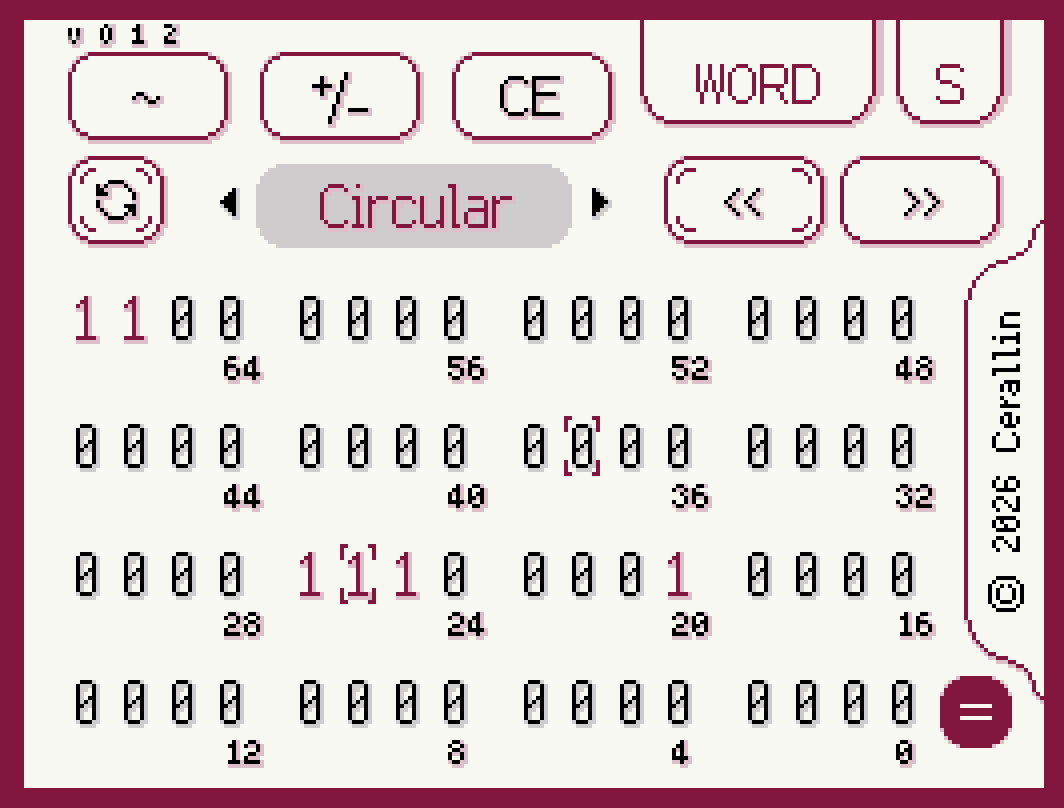
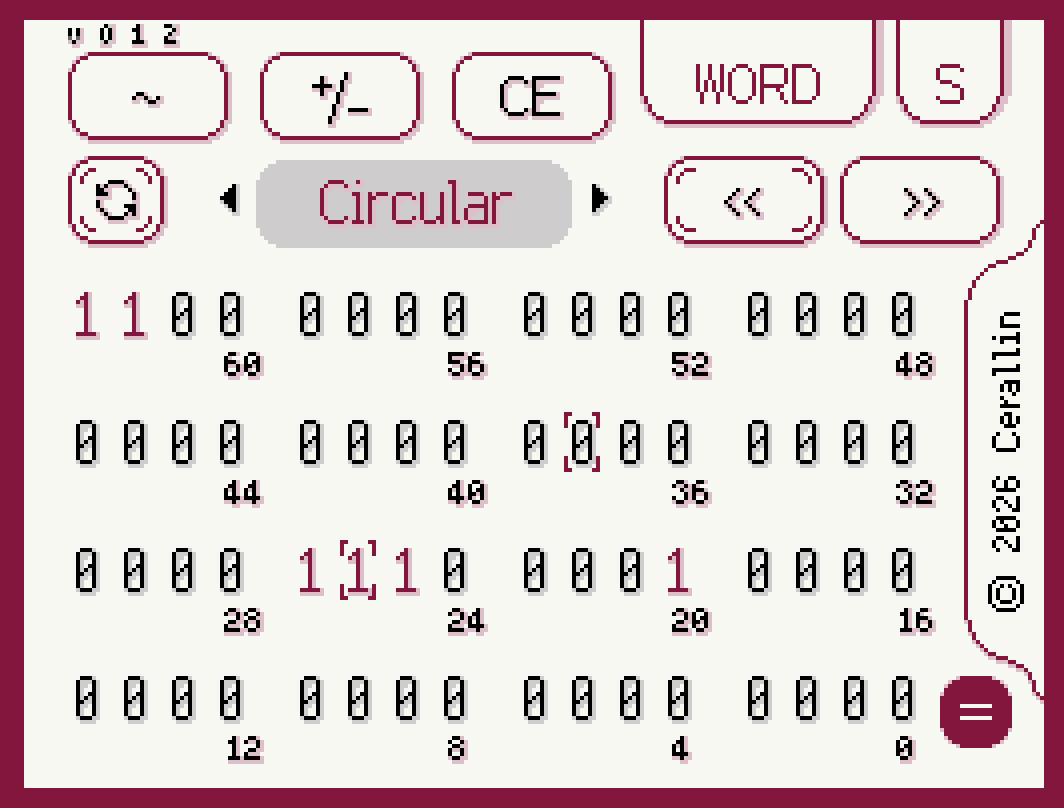
fix(subscreen): tolerate binary design vertical shift
Widen carry-label bands and the binary wipe region after moving the
binary art up 1px, and drop unused tile-layer scroll offsets.

diff --git a/subscreen_maker/run_binary.py b/subscreen_maker/run_binary.py
@@ -29,15 +29,17 @@ _TOP_ROWS_MAX_Y = 57
 # Padding added around detected Circular arrow glyphs for touch hit boxes.
 _ARROW_HIT_PAD = 2
 
-# Bit-weight / carry index labels under each binary row (coords after crop 5,6,5,4).
+# Bit-weight / carry index labels sit in the gaps between binary digit rows
+# (coords after crop 5,6,5,4). Use the full inter-row gap so a small vertical
+# shift in the design art still keeps the subscripts (and their 1px shadows).
 _CARRY_LABEL_BANDS = [
-    (84, 90),
-    (116, 122),
-    (148, 154),
-    (180, 186),
+    (79, 98),
+    (111, 130),
+    (143, 162),
+    (175, 191),
 ]
-# Clear binary digits left of equals / copyright; covers all four rows.
-_BINARY_FIELD = ((0, 57), (228, 125))
+# Clear binary digits left of equals / copyright; covers all four rows + labels.
+_BINARY_FIELD = ((0, 57), (228, 135))
 
 # Circular pill body uses a fixed palette slot (runtime / text-layer reserved range).
 _CIRCULAR_BG_PALETTE_INDEX = 6

diff --git a/source/view.cc b/source/view.cc
@@ -152,8 +152,6 @@ InputView::InputView(SubDisplay &display, ViewModel &vm)
 
 void
 InputView::Setup(void) {
-    // Set scroll
-    display.ScrollTileLayers(0, 0);
     // Setup image
     display.SetupView(SubDisplay::Image::InputImage);
     // Setup buttons
@@ -723,8 +721,6 @@ EditorView::EditorView(SubDisplay &display, ViewModel &vm)
 
 void
 EditorView::Setup(void) {
-    // Set scroll
-    display.ScrollTileLayers(0, -1);
     // Setup image
     display.SetupView(SubDisplay::Image::BinaryImage);
     // Setup number pad

diff --git a/source/display.cc b/source/display.cc
@@ -155,13 +155,6 @@ SubDisplay::SubDisplay(void)
 }
 
 void
-SubDisplay::ScrollTileLayers(int x, int y) const {
-    for (const auto &layer : tileLayers) {
-        layer.SetScroll(x, y);
-    }
-}
-
-void
 SubDisplay::PrintGlyph(int16_t x, int16_t y, const Glyph &glyph) const {
     assert(x % OffsetPerBG == 0);
     assert(y % TileHeight == 0);

diff --git a/include/display.h b/include/display.h
@@ -342,8 +342,6 @@ class SubDisplay : public Display<SubDisplay> {
   public:
     SubDisplay(void);
 
-    void ScrollTileLayers(int x, int y) const;
-
     /**
      * @brief Print a glyph at the given position.
      *
